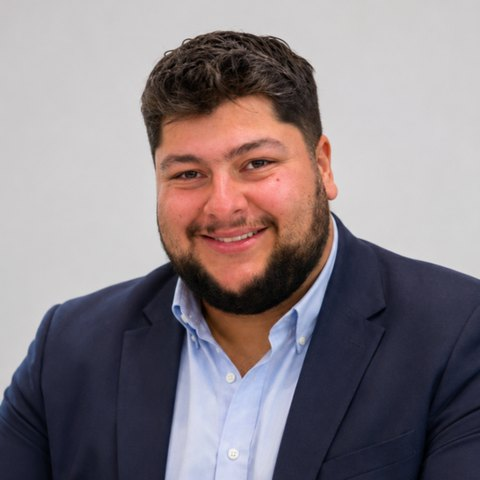
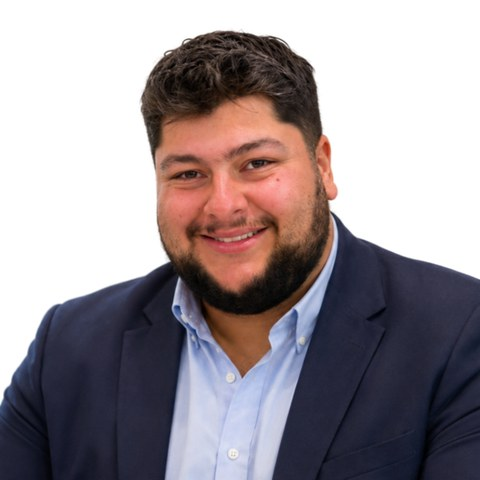
Team: Payam-bio nuchterder, foto op witte achtergrond
Claude-Session: https://claude.ai/code/session_01Vtcye7NyqMApB2Y2gi5y6u

diff --git a/team/index.html b/team/index.html
@@ -85,7 +85,7 @@
 <div class="card"><img class="tm-photo" src="/img/team/sebastian.jpg" alt="Sebastian Meyer" width="120" height="120" loading="lazy"><h2>Sebastian</h2><p class="rm" data-i18n="tm2r">Founder &amp; CFO</p><p data-i18n="tm2b">Sebastian begon als leerling-betonbouwer op de bouwplaats en studeerde ernaast civiele techniek. Hij werd uitvoerder en calculator, en is nu financieel directeur (CFO) van Camino GmbH, een Duitse fabrikant van prefab bouwelementen. Daar draagt hij de verantwoordelijkheid voor financiën, liquiditeit, boekhouding, nacalculatie en offertes. Bij Sum-IT bewaakt hij de belastinglogica en de cijfers. Hij spreekt de taal van de bouwplaats én die van de balans.</p></div>
 <div class="card"><img class="tm-photo" src="/img/team/ian.jpg" alt="Ian Bouman" width="120" height="120" loading="lazy"><h2>Ian</h2><p class="rm" data-i18n="tm1r">Founder &amp; CEO</p><p data-i18n="tm1b">Ian stopte tijdens corona met zijn studie en begon in de assemblage bij Quasar Holland, een Nederlands lichtontwerpbedrijf. Binnen twee maanden werd hij engineering manager. Daarna werkte hij als security engineer aan beveiligingsinstallaties en bouwde hij zijn eigen reclamebedrijf vanaf nul op. Sindsdien bouwt hij dingen én bedrijven. Bij Sum-IT bepaalt hij de koers: van de eerste schets van het product tot de eerste klant die het gebruikt.</p></div>
 <div class="card"><img class="tm-photo" src="/img/team/abhishek.jpg" alt="Abhishek Ghosh" width="120" height="120" loading="lazy"><h2>Abhishek</h2><p class="rm" data-i18n="tm3r">Founder &amp; directeur</p><p data-i18n="tm3b">Abhishek bouwt al sinds 2009 aan bedrijven. Hij begon in de marketing in de farmaceutische wereld en leidde daarna als managing director een marketingbureau in Mumbai en Londen. Hij richtte MediSage op, een AI-leerplatform voor artsen dat 7 miljoen dollar ophaalde bij Bessemer Venture Partners. Vandaag leidt hij ook OneAlphaMed. Bij Sum-IT zorgt hij dat het product de markt op gaat en groeit.</p></div>
-<div class="card"><img class="tm-photo" src="/img/team/payam.jpg" alt="Payam Edalat" width="120" height="120" loading="lazy"><h2>Payam</h2><p class="rm" data-i18n="tm4r">CMO</p><p data-i18n="tm4b">Payam begon op zijn zeventiende als journalist bij Sky News in Londen en werkte acht jaar in de hectiek van een 24/7-nieuwsredactie, voordat hij overstapte naar corporate communicatie voor een aantal van de grootste merken ter wereld. Daarna leidde hij de groepsbrede duurzaamheidscommunicatie van Coca-Cola HBC en adviseerde hij lokale markten, tot hij een stap terug deed om te reizen en te schrijven. Het verhaal van Sum-IT vanaf nul opbouwen bracht hem terug. Bij Sum-IT leidt hij het merk, de campagne en de stem erachter.</p></div>
+<div class="card"><img class="tm-photo" src="/img/team/payam.jpg" alt="Payam Edalat" width="120" height="120" loading="lazy"><h2>Payam</h2><p class="rm" data-i18n="tm4r">CMO</p><p data-i18n="tm4b">Payam begon op zijn zeventiende als journalist bij Sky News in Londen en werkte acht jaar op een 24/7-nieuwsredactie. Daarna stapte hij over naar corporate communicatie voor een aantal van de grootste merken ter wereld, onder meer bij Coca-Cola HBC, waar hij de duurzaamheidscommunicatie van de groep leidde. Later deed hij een stap terug om te reizen en te schrijven. Bij Sum-IT is hij verantwoordelijk voor marketing en communicatie.</p></div>
 </div>
 <p data-i18n="tm_crew" style="text-align:center;color:var(--c-muted);margin:28px 0 0">Achter de founders staat een groter team: ontwikkelaars, ontwerpers en marketeers die elke dag mee bouwen aan Sum-IT.</p>
 <p data-i18n="tm_jobs" style="text-align:center;margin:10px 0 0"><a href="/werken-bij/" style="font-weight:700">Wil je meebouwen? Bekijk werken bij Sum-IT &rarr;</a></p>
@@ -115,7 +115,7 @@
 <a href="/">sum-it.eu</a>
 <div class="legal-line" style="flex-basis:100%;width:100%;margin-top:10px;font-size:.82rem;opacity:.85;line-height:1.7">Alpha Nova B.V. · KvK 42199339 · btw NL870145496B01 · Maasdijk 14, 4284 VA Rijswijk · <a href="mailto:ian.bouman@sum-it.eu">ian.bouman@sum-it.eu</a><br><a href="/algemene-voorwaarden/" data-i18n="c_av">Algemene voorwaarden</a> · <a href="/privacy.html" data-i18n="c_priv">Privacyverklaring</a> · <a href="/privacy-en-veiligheid/" data-i18n="c_privsec">Privacy &amp; veiligheid</a> · <a href="/cookies/" data-i18n="c_cookies">Cookies</a> · <a href="#" data-cookie-settings data-i18n="c_cookieset">Cookie-instellingen</a> · <a href="/account-verwijderen/" data-i18n="c_delacc">Account verwijderen</a> · <a href="/werken-bij/" data-i18n="c_jobs">Werken bij</a> · <a href="/contact/" data-i18n="c_contact">Contact</a></div><!-- site-socials:start --><div class="site-socials"><a href="https://www.linkedin.com/company/sum-it-eu/" target="_blank" rel="noopener" title="LinkedIn" aria-label="Sum-IT · LinkedIn"><svg viewBox="0 0 24 24" aria-hidden="true"><path d="M4.98 3.5a2.5 2.5 0 11-.02 5 2.5 2.5 0 01.02-5zM3 9h4v12H3zM9 9h3.8v1.7h.1c.5-1 1.8-2 3.7-2 4 0 4.7 2.6 4.7 6V21h-4v-5.5c0-1.3 0-3-1.9-3s-2.2 1.4-2.2 2.9V21H9z"/></svg></a><a href="https://www.instagram.com/sumit.eu/" target="_blank" rel="noopener" title="Instagram" aria-label="Sum-IT · Instagram"><svg viewBox="0 0 24 24" aria-hidden="true"><path d="M12 2.2c3.2 0 3.6 0 4.8.1 3.3.1 4.8 1.7 4.9 4.9.1 1.3.1 1.6.1 4.8s0 3.6-.1 4.8c-.1 3.2-1.7 4.8-4.9 4.9-1.3.1-1.6.1-4.8.1s-3.6 0-4.8-.1c-3.3-.1-4.8-1.7-4.9-4.9-.1-1.3-.1-1.6-.1-4.8s0-3.6.1-4.8C2.4 4 4 2.4 7.2 2.3c1.2-.1 1.6-.1 4.8-.1zM12 7a5 5 0 100 10 5 5 0 000-10zm0 8.2a3.2 3.2 0 110-6.4 3.2 3.2 0 010 6.4zm6.4-8.4a1.2 1.2 0 11-2.4 0 1.2 1.2 0 012.4 0z"/></svg></a><a href="https://x.com/SumITEurope" target="_blank" rel="noopener" title="X" aria-label="Sum-IT · X"><svg viewBox="0 0 24 24" aria-hidden="true"><path d="M18.9 2H22l-6.8 7.8L23.2 22h-6.3l-4.9-6.4L6.4 22H3.3l7.3-8.3L1.5 2H8l4.4 5.8zm-1.1 18h1.7L7 3.7H5.2z"/></svg></a></div><!-- site-socials:end --></footer>
 <script>
-window.PAGE_I18N={"nl": {"tp_crumb": "Team", "tp_meta": "Sum-IT · Team", "tp_more": "Meer over Sum-IT en Alpha Nova B.V. lees je op <a href=\"/over-ons/\">over ons</a>.", "tm_h2": "Van ondernemers, voor ondernemers", "tm_lead": "De late facturen, de btw-stress, de schoenendoos vol bonnetjes die niemand wil sorteren, wij kennen deze markt van binnenuit. Daarom bouwden we het product dat we zelf hadden willen hebben.", "tm1r": "Founder & CEO", "tm1b": "Ian stopte tijdens corona met zijn studie en begon in de assemblage bij Quasar Holland, een Nederlands lichtontwerpbedrijf. Binnen twee maanden werd hij engineering manager. Daarna werkte hij als security engineer aan beveiligingsinstallaties en bouwde hij zijn eigen reclamebedrijf vanaf nul op. Sindsdien bouwt hij dingen én bedrijven. Bij Sum-IT bepaalt hij de koers: van de eerste schets van het product tot de eerste klant die het gebruikt.", "tm2r": "Founder & CFO", "tm2b": "Sebastian begon als leerling-betonbouwer op de bouwplaats en studeerde ernaast civiele techniek. Hij werd uitvoerder en calculator, en is nu financieel directeur (CFO) van Camino GmbH, een Duitse fabrikant van prefab bouwelementen. Daar draagt hij de verantwoordelijkheid voor financiën, liquiditeit, boekhouding, nacalculatie en offertes. Bij Sum-IT bewaakt hij de belastinglogica en de cijfers. Hij spreekt de taal van de bouwplaats én die van de balans.", "tm3r": "Founder & directeur", "tm4r": "CMO", "tm4b": "Payam begon op zijn zeventiende als journalist bij Sky News in Londen en werkte acht jaar in de hectiek van een 24/7-nieuwsredactie, voordat hij overstapte naar corporate communicatie voor een aantal van de grootste merken ter wereld. Daarna leidde hij de groepsbrede duurzaamheidscommunicatie van Coca-Cola HBC en adviseerde hij lokale markten, tot hij een stap terug deed om te reizen en te schrijven. Het verhaal van Sum-IT vanaf nul opbouwen bracht hem terug. Bij Sum-IT leidt hij het merk, de campagne en de stem erachter.", "tm3b": "Abhishek bouwt al sinds 2009 aan bedrijven. Hij begon in de marketing in de farmaceutische wereld en leidde daarna als managing director een marketingbureau in Mumbai en Londen. Hij richtte MediSage op, een AI-leerplatform voor artsen dat 7 miljoen dollar ophaalde bij Bessemer Venture Partners. Vandaag leidt hij ook OneAlphaMed. Bij Sum-IT zorgt hij dat het product de markt op gaat en groeit.", "st1v": "24 miljoen", "st1l": "micro-ondernemingen in Europa", "st2v": "1,2 miljoen", "st2l": "zzp'ers in Nederland (CBS, 2025)", "st3v": "1 doel", "st3l": "jou de uren teruggeven die admin steelt", "tp_cta_h3": "Begin gratis. De rest komt wanneer jij wilt.", "tp_cta_p": "Je profiel in het netwerk is gratis. Wil je ook je boekhouding in Sum-IT? Dat kan voor €11 per maand, de eerste 3 maanden gratis, wanneer jij er klaar voor bent.", "tp_cta_link": "Maak gratis je profiel aan →", "tm_crew": "Achter de founders staat een groter team: ontwikkelaars, ontwerpers en marketeers die elke dag mee bouwen aan Sum-IT.", "tm_jobs": "<a href=\"/werken-bij/\" style=\"font-weight:700\">Wil je meebouwen? Bekijk werken bij Sum-IT &rarr;</a>", "tm_hi_h": "Hartelijke groet van het hele Sum-IT-team!", "tm_hi_p": "Achter elke update zitten echte mensen. Vragen, ideeën of gewoon even hallo zeggen? Mail ons op <a href=\"mailto:ian.bouman@sum-it.eu\">ian.bouman@sum-it.eu</a>. We lezen alles."}, "en": {"tp_crumb": "Team", "tp_meta": "Sum-IT · Team", "tp_more": "Read more about Sum-IT and Alpha Nova B.V. on the <a href=\"/over-ons/\">about us</a> page.", "tm_h2": "By entrepreneurs, for entrepreneurs", "tm_lead": "The late invoices, the VAT anxiety, the shoebox of receipts nobody wants to sort, we know this market from the inside. That's why we built the product we wished existed.", "tm1r": "Founder & CEO", "tm1b": "Ian left university during COVID and started in assembly at Quasar Holland, a Dutch lighting design company, working his way up to engineering manager within two months. He then worked as a security engineer on security installations and built his own sign-making business from the ground up, and he’s been building things, and companies, ever since. At Sum-IT he calls the shots, from the first sketch of the product to the first customer who uses it.", "tm2r": "Founder & CFO", "tm2b": "Sebastian started as an apprentice concrete builder on site and studied civil engineering alongside. He became site manager and cost estimator, and is now CFO of Camino GmbH, a German manufacturer of precast building elements, responsible for finance, liquidity, accounting, post-costing and quotes. At Sum-IT he guards the tax logic and the numbers. He speaks the language of the building site and of the balance sheet.", "tm3r": "Founder & director", "tm4r": "CMO", "tm4b": "Payam started in journalism at Sky News in London at just 17, spending eight years in the fast pace of a 24/7 newsroom before moving into corporate communications for some of the world’s biggest brands. He went on to lead group sustainability communications for Coca-Cola HBC, advising local markets along the way, before stepping away to travel and write. Building Sum-IT’s story from the ground up is what brought him back. At Sum-IT he leads the brand, the campaign, and the voice behind it.", "tm3b": "Abhishek has been building companies since 2009. He started in marketing in the pharmaceutical world, then ran a marketing agency in Mumbai and London as managing director. He founded MediSage, an AI learning platform for doctors that raised US$7 million from Bessemer Venture Partners. Today he also leads OneAlphaMed. At Sum-IT he makes sure the product reaches the market and grows.", "st1v": "24M+", "st1l": "micro-businesses in Europe", "st2v": "1.2M", "st2l": "self-employed in the Netherlands (CBS, 2025)", "st3v": "1 goal", "st3l": "give you back the hours admin steals", "tp_cta_h3": "Start free. The rest comes when you want.", "tp_cta_p": "Your profile in the network is free. Want your bookkeeping in Sum-IT too? That is €11 a month, the first 3 months free, whenever you are ready.", "tp_cta_link": "Create your free profile →", "tm_crew": "Behind the founders is a bigger team: developers, designers and marketers who help build Sum-IT every day.", "tm_jobs": "<a href=\"/werken-bij/\" style=\"font-weight:700\">Want to help build it? See careers at Sum-IT &rarr;</a>", "tm_hi_h": "Warm regards from the whole Sum-IT team!", "tm_hi_p": "Behind every update are real people. Questions, ideas or just want to say hi? Email us at <a href=\"mailto:ian.bouman@sum-it.eu\">ian.bouman@sum-it.eu</a>. We read everything."}};
+window.PAGE_I18N={"nl": {"tp_crumb": "Team", "tp_meta": "Sum-IT · Team", "tp_more": "Meer over Sum-IT en Alpha Nova B.V. lees je op <a href=\"/over-ons/\">over ons</a>.", "tm_h2": "Van ondernemers, voor ondernemers", "tm_lead": "De late facturen, de btw-stress, de schoenendoos vol bonnetjes die niemand wil sorteren, wij kennen deze markt van binnenuit. Daarom bouwden we het product dat we zelf hadden willen hebben.", "tm1r": "Founder & CEO", "tm1b": "Ian stopte tijdens corona met zijn studie en begon in de assemblage bij Quasar Holland, een Nederlands lichtontwerpbedrijf. Binnen twee maanden werd hij engineering manager. Daarna werkte hij als security engineer aan beveiligingsinstallaties en bouwde hij zijn eigen reclamebedrijf vanaf nul op. Sindsdien bouwt hij dingen én bedrijven. Bij Sum-IT bepaalt hij de koers: van de eerste schets van het product tot de eerste klant die het gebruikt.", "tm2r": "Founder & CFO", "tm2b": "Sebastian begon als leerling-betonbouwer op de bouwplaats en studeerde ernaast civiele techniek. Hij werd uitvoerder en calculator, en is nu financieel directeur (CFO) van Camino GmbH, een Duitse fabrikant van prefab bouwelementen. Daar draagt hij de verantwoordelijkheid voor financiën, liquiditeit, boekhouding, nacalculatie en offertes. Bij Sum-IT bewaakt hij de belastinglogica en de cijfers. Hij spreekt de taal van de bouwplaats én die van de balans.", "tm3r": "Founder & directeur", "tm4r": "CMO", "tm4b": "Payam begon op zijn zeventiende als journalist bij Sky News in Londen en werkte acht jaar op een 24/7-nieuwsredactie. Daarna stapte hij over naar corporate communicatie voor een aantal van de grootste merken ter wereld, onder meer bij Coca-Cola HBC, waar hij de duurzaamheidscommunicatie van de groep leidde. Later deed hij een stap terug om te reizen en te schrijven. Bij Sum-IT is hij verantwoordelijk voor marketing en communicatie.", "tm3b": "Abhishek bouwt al sinds 2009 aan bedrijven. Hij begon in de marketing in de farmaceutische wereld en leidde daarna als managing director een marketingbureau in Mumbai en Londen. Hij richtte MediSage op, een AI-leerplatform voor artsen dat 7 miljoen dollar ophaalde bij Bessemer Venture Partners. Vandaag leidt hij ook OneAlphaMed. Bij Sum-IT zorgt hij dat het product de markt op gaat en groeit.", "st1v": "24 miljoen", "st1l": "micro-ondernemingen in Europa", "st2v": "1,2 miljoen", "st2l": "zzp'ers in Nederland (CBS, 2025)", "st3v": "1 doel", "st3l": "jou de uren teruggeven die admin steelt", "tp_cta_h3": "Begin gratis. De rest komt wanneer jij wilt.", "tp_cta_p": "Je profiel in het netwerk is gratis. Wil je ook je boekhouding in Sum-IT? Dat kan voor €11 per maand, de eerste 3 maanden gratis, wanneer jij er klaar voor bent.", "tp_cta_link": "Maak gratis je profiel aan →", "tm_crew": "Achter de founders staat een groter team: ontwikkelaars, ontwerpers en marketeers die elke dag mee bouwen aan Sum-IT.", "tm_jobs": "<a href=\"/werken-bij/\" style=\"font-weight:700\">Wil je meebouwen? Bekijk werken bij Sum-IT &rarr;</a>", "tm_hi_h": "Hartelijke groet van het hele Sum-IT-team!", "tm_hi_p": "Achter elke update zitten echte mensen. Vragen, ideeën of gewoon even hallo zeggen? Mail ons op <a href=\"mailto:ian.bouman@sum-it.eu\">ian.bouman@sum-it.eu</a>. We lezen alles."}, "en": {"tp_crumb": "Team", "tp_meta": "Sum-IT · Team", "tp_more": "Read more about Sum-IT and Alpha Nova B.V. on the <a href=\"/over-ons/\">about us</a> page.", "tm_h2": "By entrepreneurs, for entrepreneurs", "tm_lead": "The late invoices, the VAT anxiety, the shoebox of receipts nobody wants to sort, we know this market from the inside. That's why we built the product we wished existed.", "tm1r": "Founder & CEO", "tm1b": "Ian left university during COVID and started in assembly at Quasar Holland, a Dutch lighting design company, working his way up to engineering manager within two months. He then worked as a security engineer on security installations and built his own sign-making business from the ground up, and he’s been building things, and companies, ever since. At Sum-IT he calls the shots, from the first sketch of the product to the first customer who uses it.", "tm2r": "Founder & CFO", "tm2b": "Sebastian started as an apprentice concrete builder on site and studied civil engineering alongside. He became site manager and cost estimator, and is now CFO of Camino GmbH, a German manufacturer of precast building elements, responsible for finance, liquidity, accounting, post-costing and quotes. At Sum-IT he guards the tax logic and the numbers. He speaks the language of the building site and of the balance sheet.", "tm3r": "Founder & director", "tm4r": "CMO", "tm4b": "Payam started in journalism at Sky News in London at 17 and spent eight years in a 24/7 newsroom. He then moved into corporate communications for some of the world’s biggest brands, including Coca-Cola HBC, where he led group sustainability communications. Later he stepped away to travel and write. At Sum-IT he is responsible for marketing and communications.", "tm3b": "Abhishek has been building companies since 2009. He started in marketing in the pharmaceutical world, then ran a marketing agency in Mumbai and London as managing director. He founded MediSage, an AI learning platform for doctors that raised US$7 million from Bessemer Venture Partners. Today he also leads OneAlphaMed. At Sum-IT he makes sure the product reaches the market and grows.", "st1v": "24M+", "st1l": "micro-businesses in Europe", "st2v": "1.2M", "st2l": "self-employed in the Netherlands (CBS, 2025)", "st3v": "1 goal", "st3l": "give you back the hours admin steals", "tp_cta_h3": "Start free. The rest comes when you want.", "tp_cta_p": "Your profile in the network is free. Want your bookkeeping in Sum-IT too? That is €11 a month, the first 3 months free, whenever you are ready.", "tp_cta_link": "Create your free profile →", "tm_crew": "Behind the founders is a bigger team: developers, designers and marketers who help build Sum-IT every day.", "tm_jobs": "<a href=\"/werken-bij/\" style=\"font-weight:700\">Want to help build it? See careers at Sum-IT &rarr;</a>", "tm_hi_h": "Warm regards from the whole Sum-IT team!", "tm_hi_p": "Behind every update are real people. Questions, ideas or just want to say hi? Email us at <a href=\"mailto:ian.bouman@sum-it.eu\">ian.bouman@sum-it.eu</a>. We read everything."}};
 </script>
 <script src="/i18n.js" defer></script>
 <script src="/js/consent.js" defer></script>
